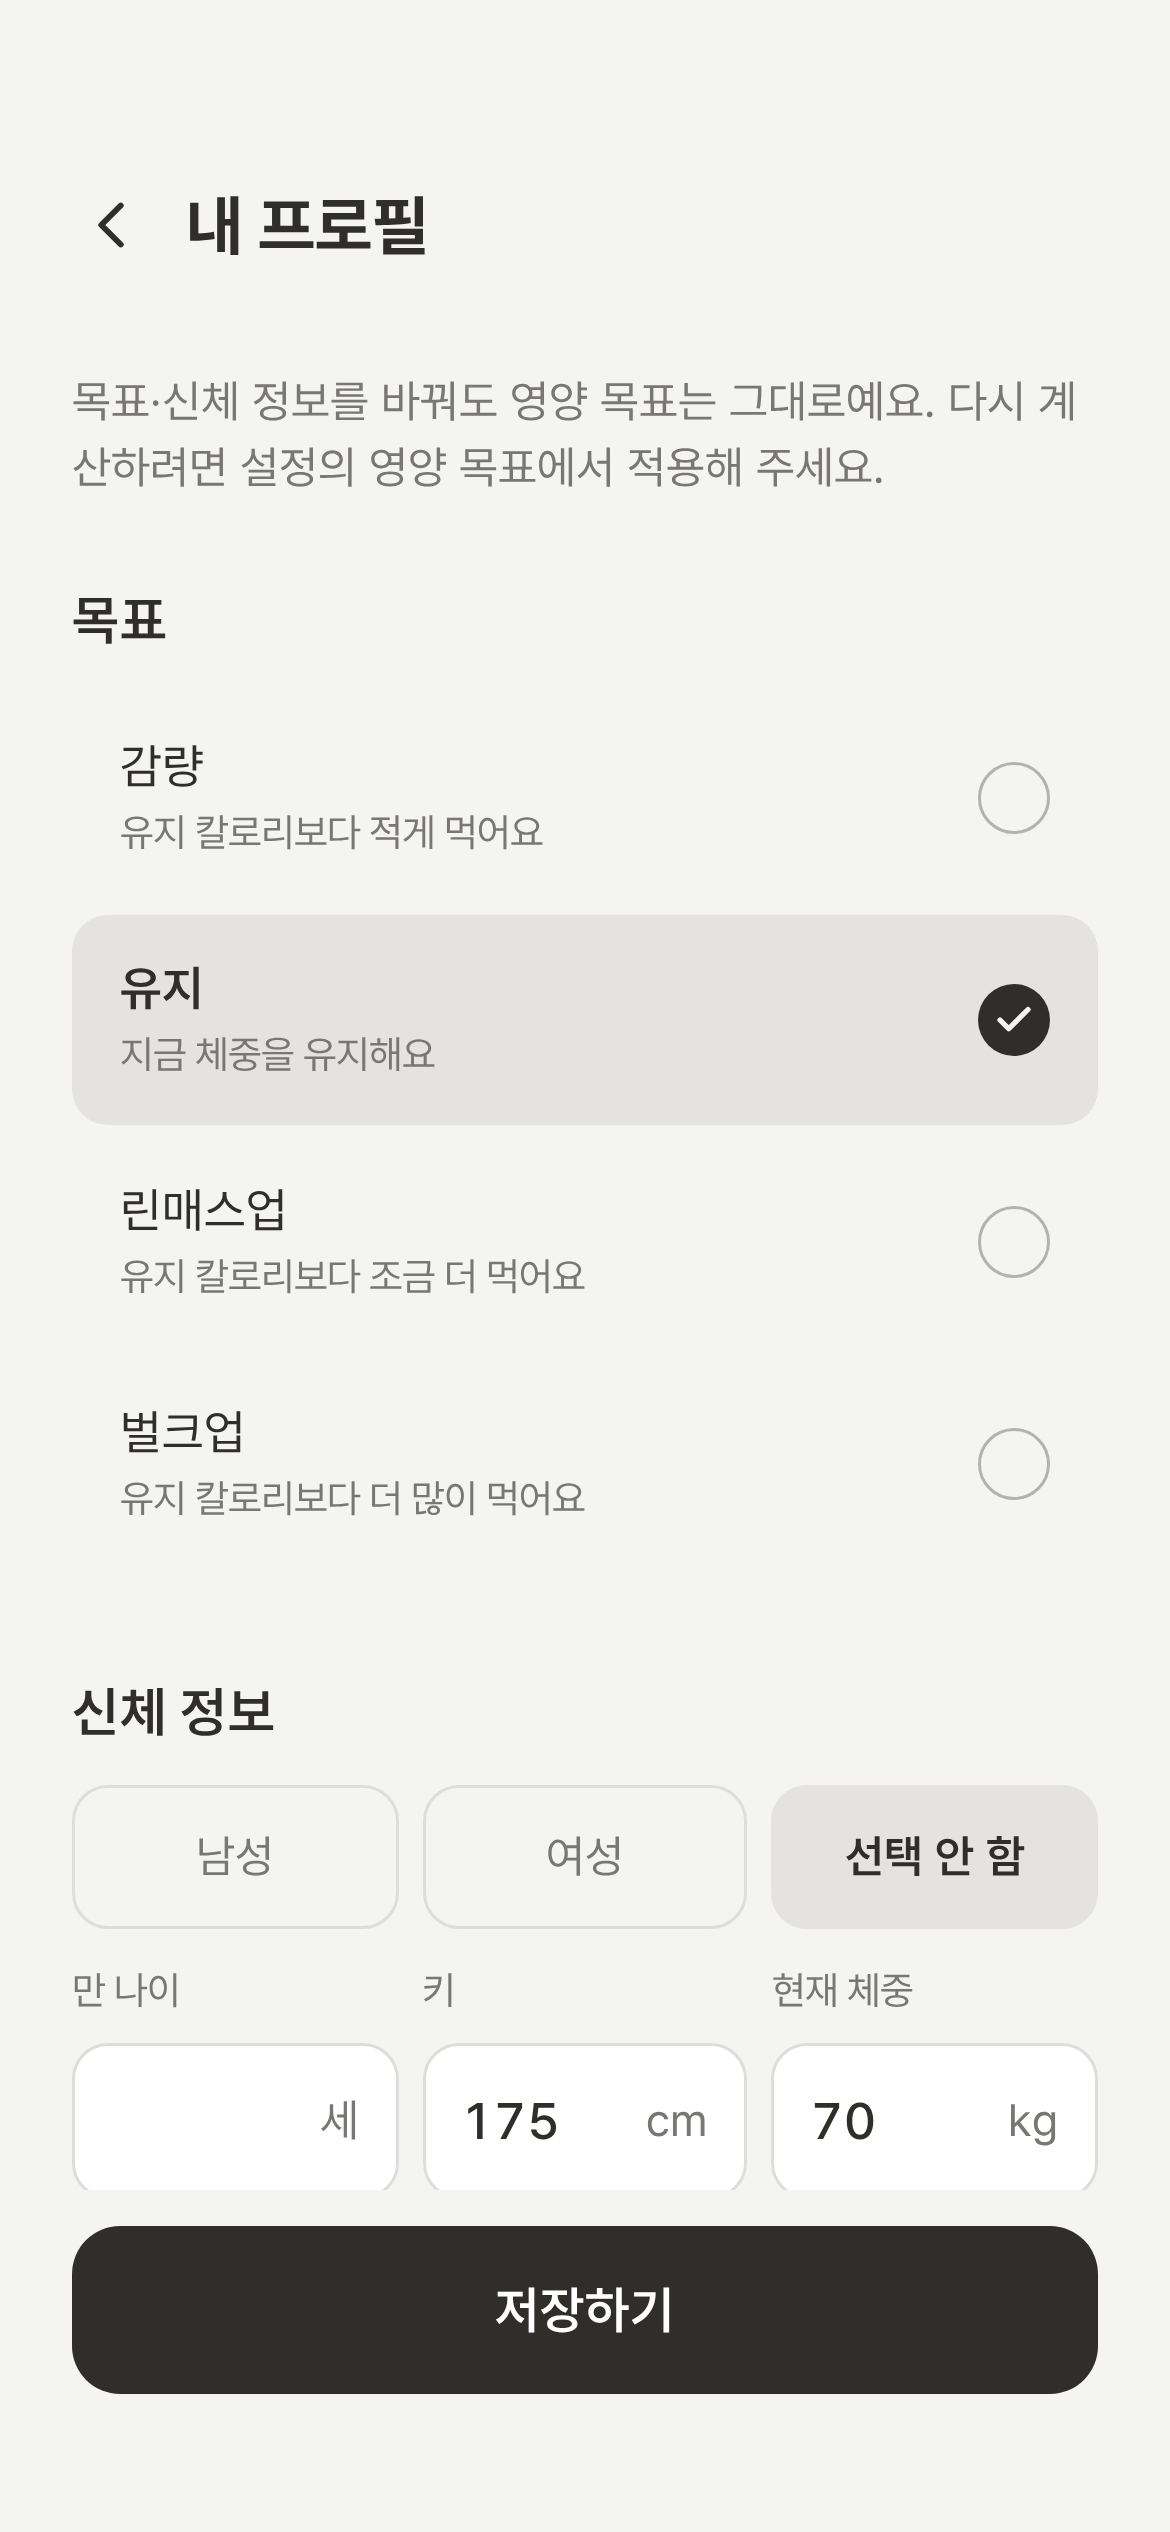
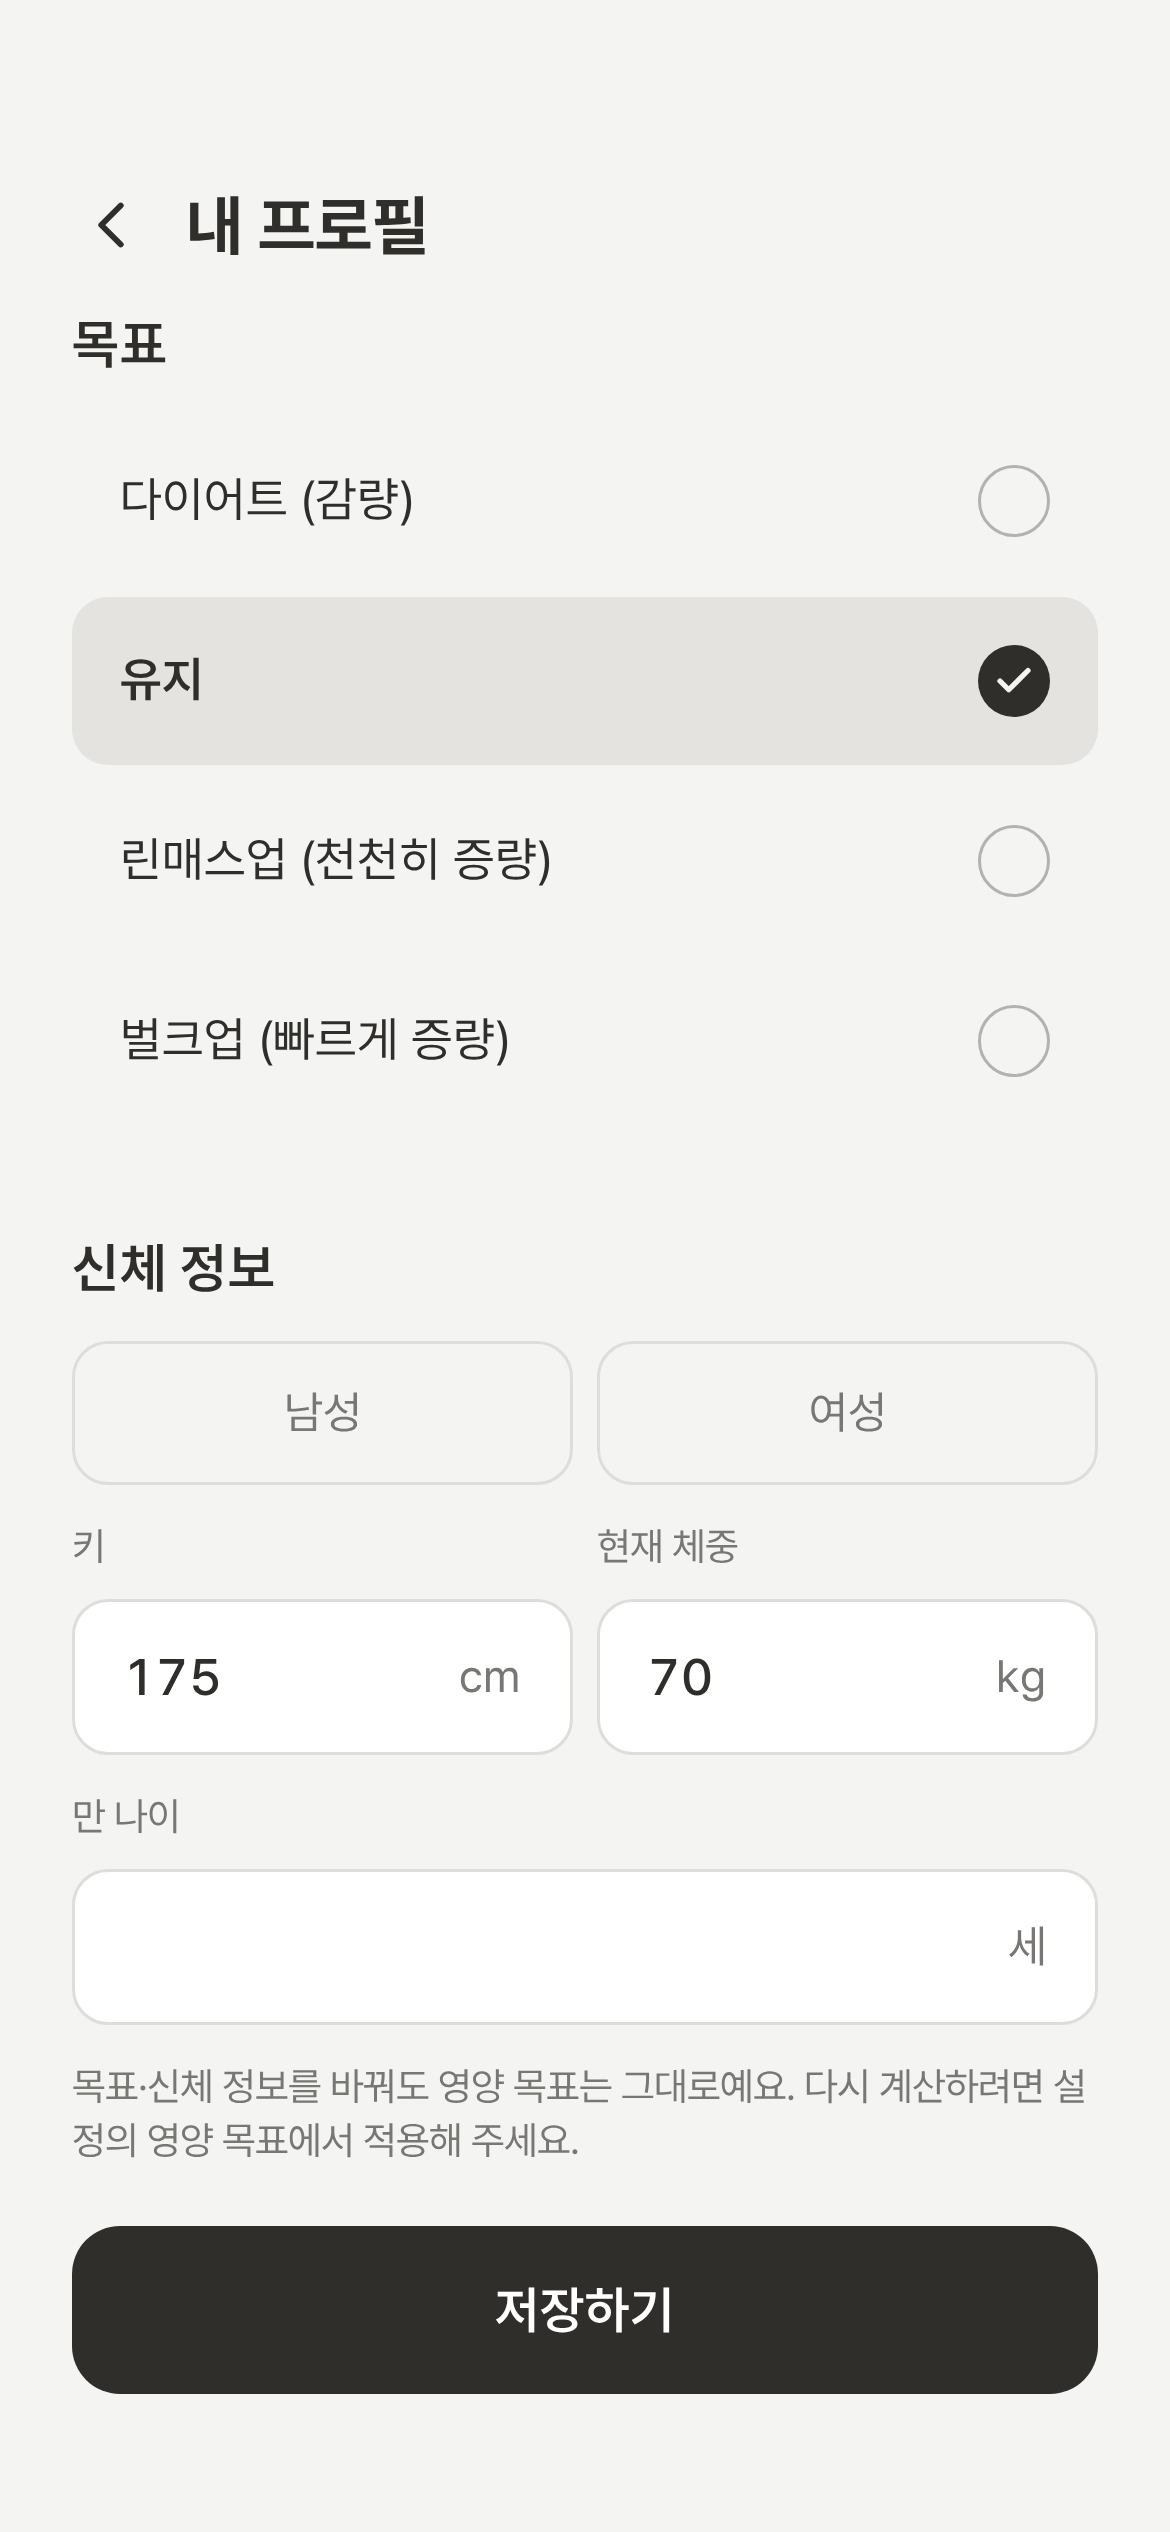
앱: 프로필·영양 목표 화면을 예전 내 프로필처럼 간결하게
- 성별은 남성·여성만(선택 안 함 버튼 없앰), 키·체중 한 줄 + 만 나이 다음 줄
- 목표는 이름만 한 줄(설명 줄 없앰), 프로필 안내는 위 문단 대신 신체 정보 아래로
- 활동 단계의 신체활동수준·계수 줄과 긴 안내를 덜어냄(계수는 결과 화면에)
- 린트: 기록 확인의 수동 useCallback 제거(React Compiler), 안 쓰는 import

Claude-Session: https://claude.ai/code/session_01GJmBvgDyKjhrHvc96oCA2x

diff --git a/app/src/features/settings/editors/ProfileEditor.tsx b/app/src/features/settings/editors/ProfileEditor.tsx
@@ -33,7 +33,6 @@ export function isProfileValid(p: ProfileDraft): boolean {
 export const ageOf = (p: ProfileDraft): number | null => (p.age.trim() === '' ? null : Number(p.age));
 
 const GOALS: Goal[] = ['lose', 'keep', 'gain', 'bulk'];
-type SexChoice = Sex | 'unset';
 
 interface Props {
   value: ProfileDraft;
@@ -46,13 +45,13 @@ interface Props {
   nickname?: { value: string; onChange: (v: string) => void; title: string };
 }
 
-/** 목표(하나 고르기) + 성별·나이·키·몸무게 + 닉네임(선택) */
+/** 목표(하나 고르기) + 성별 + 키·몸무게(한 줄) + 나이(다음 줄) + 닉네임(선택) */
 export function ProfileEditor({ value, onChange, goalTitle, bodyNote, nickname }: Props) {
   const { t } = useTranslation();
-  const sexOptions: { value: SexChoice; label: string }[] = [
+  // 성별은 남성·여성 중 고른다. 아직 안 골랐으면(null) 둘 다 꺼진 채로 둔다(그때는 직접 설정만 쓸 수 있다).
+  const sexOptions: { value: Sex; label: string }[] = [
     { value: 'male', label: t('sex.male') },
     { value: 'female', label: t('sex.female') },
-    { value: 'unset', label: t('sex.unset') },
   ];
   return (
     <View style={styles.root}>
@@ -62,7 +61,6 @@ export function ProfileEditor({ value, onChange, goalTitle, bodyNote, nickname }
             <RadioRow
               key={g}
               label={t(`goal.${g}`)}
-              desc={t(`goalDesc.${g}`)}
               selected={value.goal === g}
               onPress={() => onChange({ ...value, goal: g })}
             />
@@ -73,22 +71,12 @@ export function ProfileEditor({ value, onChange, goalTitle, bodyNote, nickname }
         <View style={styles.fields}>
           <Segmented
             options={sexOptions}
-            value={value.sex ?? 'unset'}
-            onChange={(v) => onChange({ ...value, sex: v === 'unset' ? null : v })}
+            value={value.sex ?? ('' as Sex)}
+            onChange={(sex) => onChange({ ...value, sex })}
           />
           <View style={styles.row}>
             <View style={styles.field}>
               <NumberField
-                compact
-                label={t('onboarding.age')}
-                unit={t('onboarding.ageUnit')}
-                value={value.age}
-                onChange={(age) => onChange({ ...value, age: age.replace(/\./g, '') })}
-              />
-            </View>
-            <View style={styles.field}>
-              <NumberField
-                compact
                 label={t('onboarding.height')}
                 unit={t('onboarding.cm')}
                 value={value.height}
@@ -97,7 +85,6 @@ export function ProfileEditor({ value, onChange, goalTitle, bodyNote, nickname }
             </View>
             <View style={styles.field}>
               <NumberField
-                compact
                 label={t('onboarding.weight')}
                 unit={t('onboarding.kg')}
                 value={value.weight}
@@ -105,6 +92,12 @@ export function ProfileEditor({ value, onChange, goalTitle, bodyNote, nickname }
               />
             </View>
           </View>
+          <NumberField
+            label={t('onboarding.age')}
+            unit={t('onboarding.ageUnit')}
+            value={value.age}
+            onChange={(age) => onChange({ ...value, age: age.replace(/\./g, '') })}
+          />
         </View>
       </FormSection>
       {nickname ? (

diff --git a/app/src/app/capture/review.tsx b/app/src/app/capture/review.tsx
@@ -212,22 +212,21 @@ export default function ReviewScreen() {
   const perFood = plan.perFood;
   const nutrition = useMemo(() => applyPortion(plan.ai, plan.portion, shared), [plan, shared]);
 
-  const setItem = useCallback(
-    (item: FoodItem) => {
-      setAi((p) => {
-        const items = [...p.items];
-        if (editing?.at == null) items.push(item);
-        else {
-          // 이름이 같으면(양만 고침) AI가 추정한 음식별 칼로리·탄단지·먹은 양을 남기고, 다른 음식으로 바꾸면 버린다
-          const prev = items[editing.at];
-          items[editing.at] = prev && prev.name === item.name ? { ...prev, ...item } : item;
-        }
-        return { ...p, items };
-      });
-      setEditing(null);
-    },
-    [editing],
-  );
+  // 메모는 React Compiler 에 맡긴다(직접 useCallback 으로 감싸면 컴파일러가 이 화면을 최적화하지 못한다)
+  const setItem = (item: FoodItem) => {
+    const at = editing?.at;
+    setAi((p) => {
+      const items = [...p.items];
+      if (at == null) items.push(item);
+      else {
+        // 이름이 같으면(양만 고침) AI가 추정한 음식별 칼로리·탄단지·먹은 양을 남기고, 다른 음식으로 바꾸면 버린다
+        const prev = items[at];
+        items[at] = prev && prev.name === item.name ? { ...prev, ...item } : item;
+      }
+      return { ...p, items };
+    });
+    setEditing(null);
+  };
 
   const removeItem = () => {
     const at = editing?.at;

diff --git a/app/src/features/nutrition/steps/ActivityStep.tsx b/app/src/features/nutrition/steps/ActivityStep.tsx
@@ -1,14 +1,7 @@
 import { useTranslation } from 'react-i18next';
 import { StyleSheet, View } from 'react-native';
 
-import {
-  ACTIVITIES,
-  PA,
-  PAL_RANGE,
-  type DailyActivity,
-  type ExerciseType,
-  type Intensity,
-} from '../../../domain/nutrition';
+import { ACTIVITIES, type DailyActivity, type ExerciseType, type Intensity } from '../../../domain/nutrition';
 import { NumberField } from '../../../ui/NumberField';
 import { Segmented } from '../../../ui/Segmented';
 import { layout } from '../../../ui/tokens';
@@ -30,8 +23,6 @@ export function ActivityStep() {
   const ai = f.activityInput;
   const ex = ai.exercise;
   const setEx = (p: Partial<typeof ex>) => set({ ...f, activityInput: { ...ai, exercise: { ...ex, ...p } } });
-  const paOf = (a: (typeof ACTIVITIES)[number]) =>
-    f.sex ? String(PA[f.sex][a].toFixed(2)) : `${PA.male[a].toFixed(2)} / ${PA.female[a].toFixed(2)}`;
 
   return (
     <View style={styles.root}>
@@ -102,7 +93,7 @@ export function ActivityStep() {
             <RadioRow
               key={a}
               label={t(`activity.${a}`)}
-              desc={`${t(`activityDesc.${a}`)}\n${t('nutrition.levelMeta', { pal: PAL_RANGE[a], pa: paOf(a) })}`}
+              desc={t(`activityDesc.${a}`)}
               selected={f.activity === a}
               onPress={() => set({ ...f, activity: a })}
             />

diff --git a/app/src/app/edit/profile.tsx b/app/src/app/edit/profile.tsx
@@ -30,7 +30,6 @@ export default function EditProfile() {
   return (
     <Screen
       header={<SubHeader title={t('settings.myProfile')} onBack={() => router.back()} />}
-      desc={t('edit.profileTargetsNote')}
       footer={
         <FullButton
           label={t('edit.save')}
@@ -54,6 +53,7 @@ export default function EditProfile() {
         value={p}
         onChange={setP}
         goalTitle={t('edit.goal')}
+        bodyNote={t('edit.profileTargetsNote')}
         nickname={{ value: nickname, onChange: setNickname, title: t('edit.nickname') }}
       />
     </Screen>

diff --git a/app/src/features/records/DayCard.tsx b/app/src/features/records/DayCard.tsx
@@ -10,7 +10,7 @@ import type { Targets } from '../../domain/targets';
 import { TotalsCard } from '../today/components/TotalsCard';
 import { usePalette, useThemedStyles, type Palette } from '../../ui/theme';
 import { fonts, layout, radius, text } from '../../ui/tokens';
-import { clock, eatenFoodNames, fullDate, kcalText, macroText, type MealRow } from './format';
+import { clock, eatenFoodNames, fullDate, type MealRow } from './format';
 
 const THUMB = 60;
 

diff --git a/app/src/features/nutrition/routes.tsx b/app/src/features/nutrition/routes.tsx
@@ -97,7 +97,6 @@ export function ActivityScreen({ flow }: { flow: Flow }) {
     <Screen
       header={<Header flow={flow} i={2} />}
       title={t('nutrition.step2')}
-      desc={t('nutrition.step2Desc')}
       footer={<FullButton label={t('common.next')} onPress={() => router.push(flow.next.plan)} />}
     >
       <ActivityStep />
